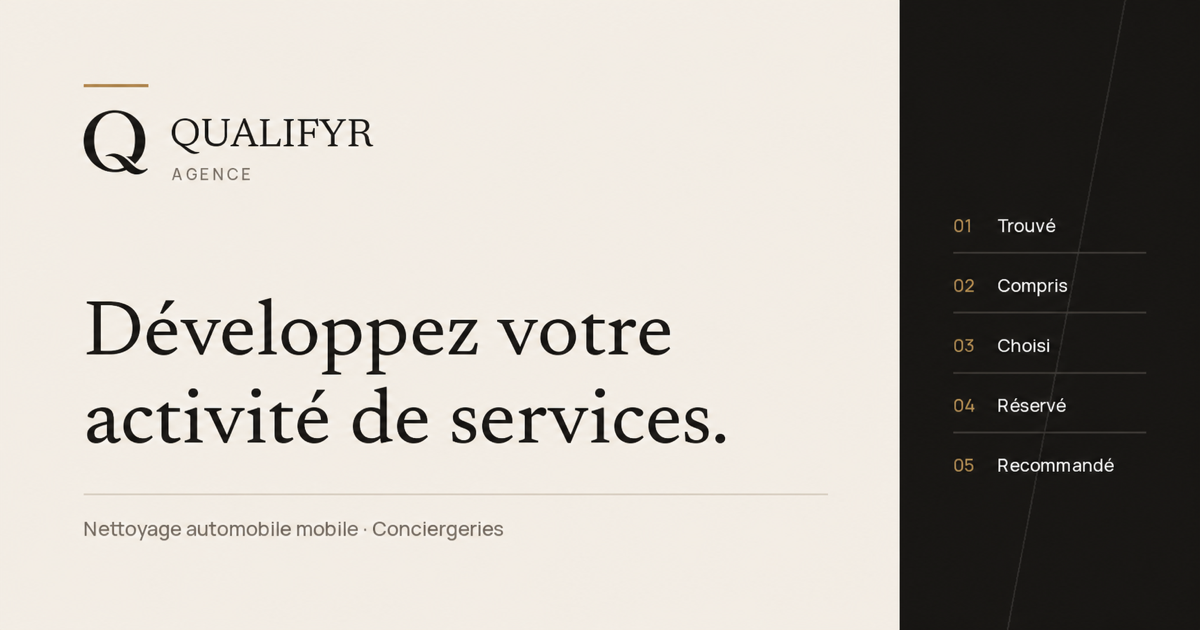
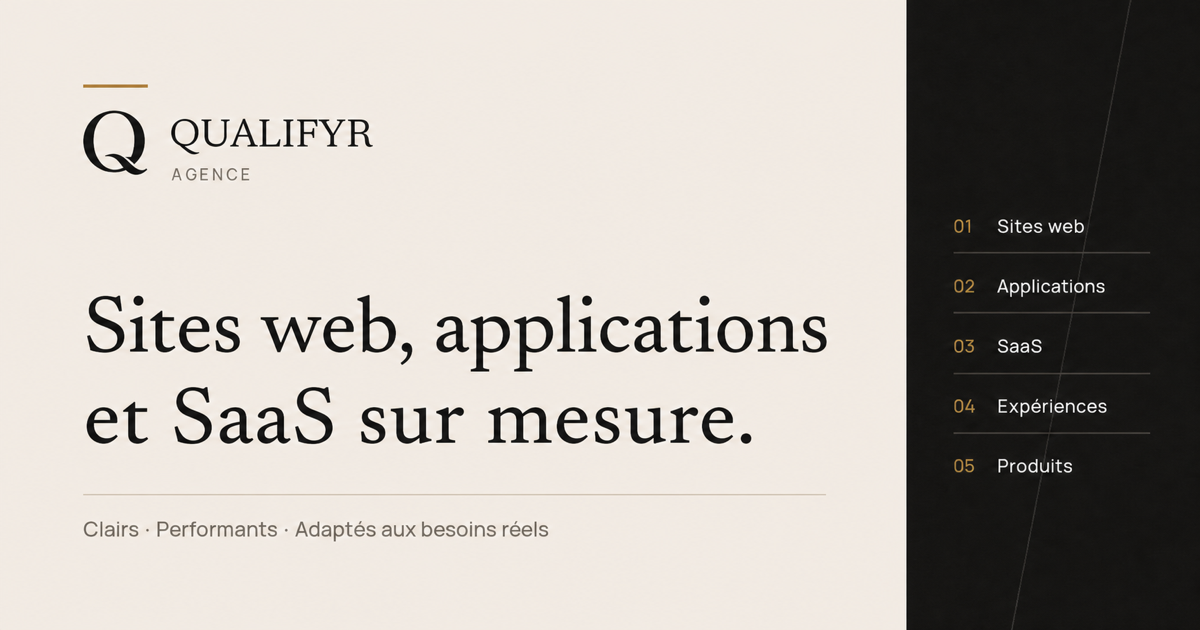
feat: update homepage positioning and seo metadata

diff --git a/src/lib/structured-data.ts b/src/lib/structured-data.ts
@@ -10,7 +10,7 @@ import type { Route } from '@/types';
  * `Organization`, `WebSite`, `BreadcrumbList`.
  *
  * Interdits, et pour de bonnes raisons :
- * — `SoftwareApplication` : Qualifyr ne vend pas de logiciel ;
+ * — `SoftwareApplication` : décrit un produit logiciel précis, pas une prestation d'agence ;
  * — `Product` / `Offer` : aucun tarif n'existe ;
  * — `AggregateRating`, `Review` : aucun avis n'a été recueilli ;
  * — `LocalBusiness` : aucune adresse n'est confirmée, et en inventer une pour
@@ -35,14 +35,13 @@ export function organization() {
     description: brand.descriptor,
     logo: absolute('/icon.svg?v=2'),
     image: absolute('/images/og/qualifyr-og.png'),
-    // Le métier servi, sans revendiquer d'implantation géographique.
+    // Compétences réellement présentées, sans revendiquer d'implantation géographique.
     knowsAbout: [
-      'Nettoyage automobile mobile',
-      'Detailing à domicile',
-      'Conciergerie',
-      'Organisation de services',
-      'Parcours client',
-      'Prise de rendez-vous',
+      'Sites web sur mesure',
+      'Applications web',
+      'SaaS',
+      'Expérience utilisateur',
+      'Produits digitaux',
     ],
   };
 

diff --git a/src/content/brand.ts b/src/content/brand.ts
@@ -15,15 +15,15 @@ export const brand = {
   wordmarkSuffix: 'Agence',
 
   /** Promesse principale. Titre principal de l'accueil. */
-  promise: 'Faites grandir votre activité de services.',
+  promise: 'Des sites et produits digitaux pensés pour être utilisés, compris et rentables.',
 
   /** Texte d'explication principal, systématiquement associé à la promesse. */
   explanation:
-    'Qualifyr construit le parcours qui vous aide à être trouvé, compris, choisi, réservé puis recommandé, sans multiplier les outils ni compliquer votre quotidien.',
+    'Qualifyr conçoit des sites web, des applications et des SaaS modernes pour transformer une idée ou un besoin métier en expérience digitale concrète.',
 
   /** Formulation courte, pour le pied de page et les métadonnées. */
   descriptor:
-    'Agence spécialisée dans le développement des entreprises de nettoyage automobile mobile et des conciergeries.',
+    'Qualifyr conçoit des sites web, des applications et des SaaS modernes, pensés pour être clairs, performants et adaptés aux besoins réels des entreprises.',
 
   /** Nom provisoire de l'offre unique. */
   offerName: 'Le parcours Qualifyr',

diff --git a/src/app/layout.tsx b/src/app/layout.tsx
@@ -18,7 +18,7 @@ export const metadata: Metadata = {
   // Base de toutes les URL relatives : canonical, Open Graph, images.
   metadataBase: new URL(site.url),
   title: {
-    default: 'Agence pour nettoyage automobile et conciergeries — Qualifyr',
+    default: 'Qualifyr — Sites web, applications et SaaS sur mesure',
     template: `%s — ${brand.fullName}`,
   },
   description: brand.descriptor,
@@ -35,10 +35,17 @@ export const metadata: Metadata = {
     type: 'website',
     locale: site.locale,
     siteName: brand.fullName,
+    title: 'Qualifyr — Sites web, applications et SaaS sur mesure',
+    description: brand.descriptor,
     url: site.url,
     images: [openGraphImage],
   },
-  twitter: { card: 'summary_large_image', images: [openGraphImage.url] },
+  twitter: {
+    card: 'summary_large_image',
+    title: 'Qualifyr — Sites web, applications et SaaS sur mesure',
+    description: brand.descriptor,
+    images: [openGraphImage.url],
+  },
   robots: site.indexable
     ? { index: true, follow: true }
     : { index: false, follow: false, nocache: true },

diff --git a/src/lib/metadata.ts b/src/lib/metadata.ts
@@ -16,19 +16,19 @@ export const openGraphImage = {
   url: '/images/og/qualifyr-og.png',
   width: 1200,
   height: 630,
-  alt: 'Qualifyr Agence — Développez votre activité de services',
+  alt: 'Qualifyr — Sites web, applications et SaaS sur mesure',
   type: 'image/png',
 } as const;
 
 export function buildMetadata(route: Route): Metadata {
   const meta = pageMeta[route];
-  const canonical = route;
+  const canonical = new URL(route, site.url).toString();
 
   return {
     // Titre pris tel quel : la marque y figure déjà, le gabarit ne s'applique pas.
     title: { absolute: meta.title },
     description: meta.description,
-    alternates: { canonical },
+    alternates: { canonical: new URL(canonical) },
     openGraph: {
       type: 'website',
       locale: site.locale,

diff --git a/src/content/home.ts b/src/content/home.ts
@@ -2,8 +2,8 @@ import { objectives, swCarCleaning } from './sw-car-cleaning';
 
 export const hero = {
   eyebrow: 'Pour les entreprises de nettoyage automobile et les conciergeries',
-  title: 'Un site clair pour mieux développer votre activité.',
-  body: 'Qualifyr conçoit votre site et structure le parcours qui aide vos prospects à comprendre votre offre, vous contacter et passer à l’action.',
+  title: 'Des sites et produits digitaux pensés pour être utilisés, compris et rentables.',
+  body: 'Qualifyr conçoit des sites web, des applications et des SaaS modernes pour transformer une idée ou un besoin métier en expérience digitale concrète.',
 } as const;
 
 /** Conservé pour la composition éditoriale réutilisée par le design system. */

diff --git a/src/content/site.ts b/src/content/site.ts
@@ -39,9 +39,9 @@ type PageMeta = {
  */
 export const pageMeta: Readonly<Record<Route, PageMeta>> = {
   '/': {
-    title: 'Qualifyr — Agence nettoyage auto & conciergeries',
+    title: 'Qualifyr — Sites web, applications et SaaS sur mesure',
     description:
-      'Qualifyr crée le site et le parcours client qui aident les entreprises de nettoyage automobile mobile et les conciergeries à obtenir plus de demandes.',
+      'Qualifyr conçoit des sites web, des applications et des SaaS modernes, pensés pour être clairs, performants et adaptés aux besoins réels des entreprises.',
     priority: 1,
   },
   '/methode': {

diff --git a/AGENTS.md b/AGENTS.md
@@ -42,15 +42,16 @@ avec ces documents. Si un besoin nouveau apparaît, on met à jour le document c
 
 ---
 
-## 2. Deux verticales officielles
+## 2. Positionnement élargi validé
 
 Qualifyr Agence est spécialisée dans le développement de deux types d'entreprises :
 
 - le **nettoyage automobile mobile et le detailing à domicile** ;
 - les **conciergeries**.
 
-- La V1 du site s'adresse **uniquement** à ces deux verticales.
-- Aucune troisième verticale ne doit apparaître sans validation explicite.
+- Ces deux verticales restent des domaines d'expérience et des cas d'usage visibles.
+- Depuis la validation du 27 juillet 2026, l'accueil présente aussi l'offre élargie de
+  conception de sites web, d'applications et de SaaS sur mesure pour les entreprises.
 - Pas de page « Solutions » listant d'autres métiers.
 - Pas de mention « tous les artisans », « toutes les TPE », « tous secteurs ».
 - Le terme « conciergerie » reste large : voyage, séjour, organisation de services,
@@ -66,7 +67,6 @@ Qualifyr **n'est pas** :
 - une agence web généraliste ;
 - une agence IA ;
 - une agence no-code ;
-- un éditeur de SaaS ;
 - un CRM ;
 - un ERP ;
 - une agence publicitaire ;
@@ -84,11 +84,12 @@ entreprise :
 - d'obtenir des avis ;
 - de favoriser les nouvelles réservations.
 
-**Titre principal de l'accueil** : « Un site clair pour mieux développer votre activité. »
+**Titre principal de l'accueil** : « Des sites et produits digitaux pensés pour être
+utilisés, compris et rentables. »
 
-**Texte d'explication principal** : « Qualifyr construit le parcours qui vous aide à être
-trouvé, compris, choisi, réservé puis recommandé, sans multiplier les outils ni compliquer
-votre quotidien. »
+**Texte d'explication principal** : « Qualifyr conçoit des sites web, des applications et
+des SaaS modernes pour transformer une idée ou un besoin métier en expérience digitale
+concrète. »
 
 **Offre principale** : « Le parcours Qualifyr » (nom provisoire).
 
@@ -102,7 +103,7 @@ le développement de l'activité.
 
 Ne jamais utiliser comme argument, titre, sous-titre ou description d'offre :
 
-`IA` · `intelligence artificielle` · `SaaS` · `CRM` · `ERP` · `automatisation` · `no-code` ·
+`IA` · `intelligence artificielle` · `CRM` · `ERP` · `automatisation` · `no-code` ·
 `transformation digitale` · `présence en ligne` · `solution innovante` ·
 `technologie révolutionnaire` · `écosystème` · `tunnel de vente` · `growth hacking` ·
 `agence 360` · `acquisition omnicanale`

diff --git a/docs/01-positionnement.md b/docs/01-positionnement.md
@@ -3,6 +3,33 @@
 Document de référence. Toute page, tout titre et tout composant du site doit pouvoir être
 justifié par ce document.
 
+## Décision stratégique du 27 juillet 2026
+
+Le positionnement public de l'accueil est élargi à la conception de sites web,
+d'applications et de SaaS sur mesure. Les deux verticales historiques restent présentées
+comme domaines d'expérience, sans limiter l'offre à ces seuls métiers.
+
+**Titre principal de l'accueil :**
+
+> Des sites et produits digitaux pensés pour être utilisés, compris et rentables.
+
+**Texte d'explication de l'accueil :**
+
+> Qualifyr conçoit des sites web, des applications et des SaaS modernes pour transformer
+> une idée ou un besoin métier en expérience digitale concrète.
+
+**Title SEO de l'accueil :**
+
+> Qualifyr — Sites web, applications et SaaS sur mesure
+
+**Meta description de l'accueil :**
+
+> Qualifyr conçoit des sites web, des applications et des SaaS modernes, pensés pour être
+> clairs, performants et adaptés aux besoins réels des entreprises.
+
+Cette décision remplace, pour l'accueil et ses métadonnées, les formulations historiques
+contradictoires conservées plus bas à titre de contexte de la V1.
+
 ---
 
 ## 1. Cible
